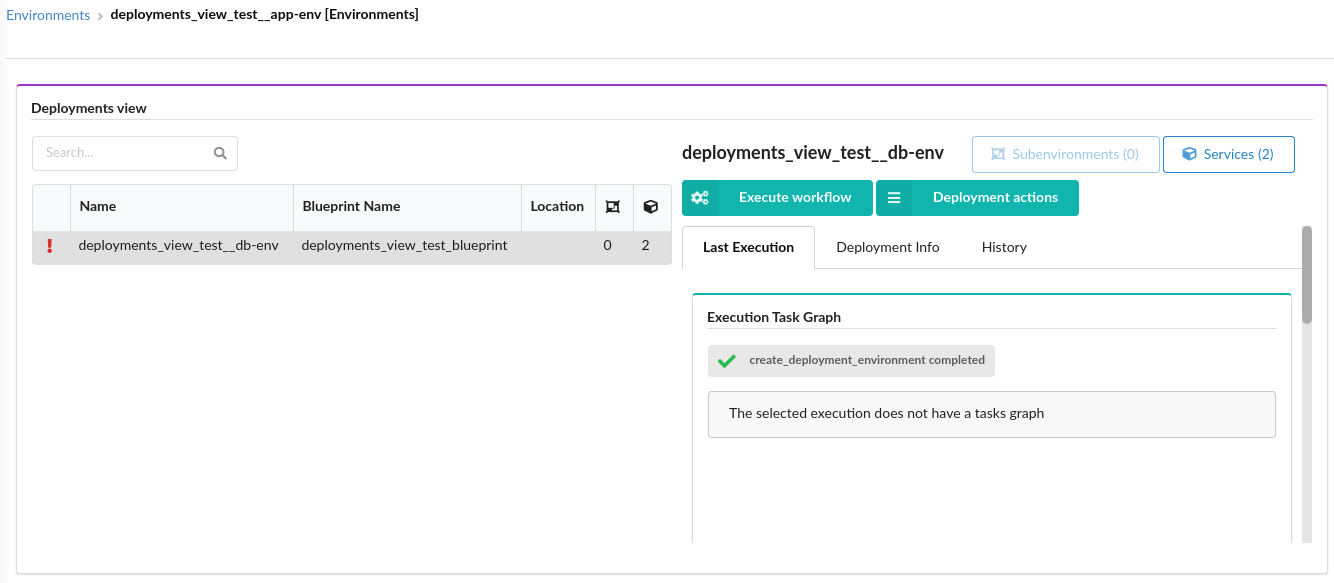
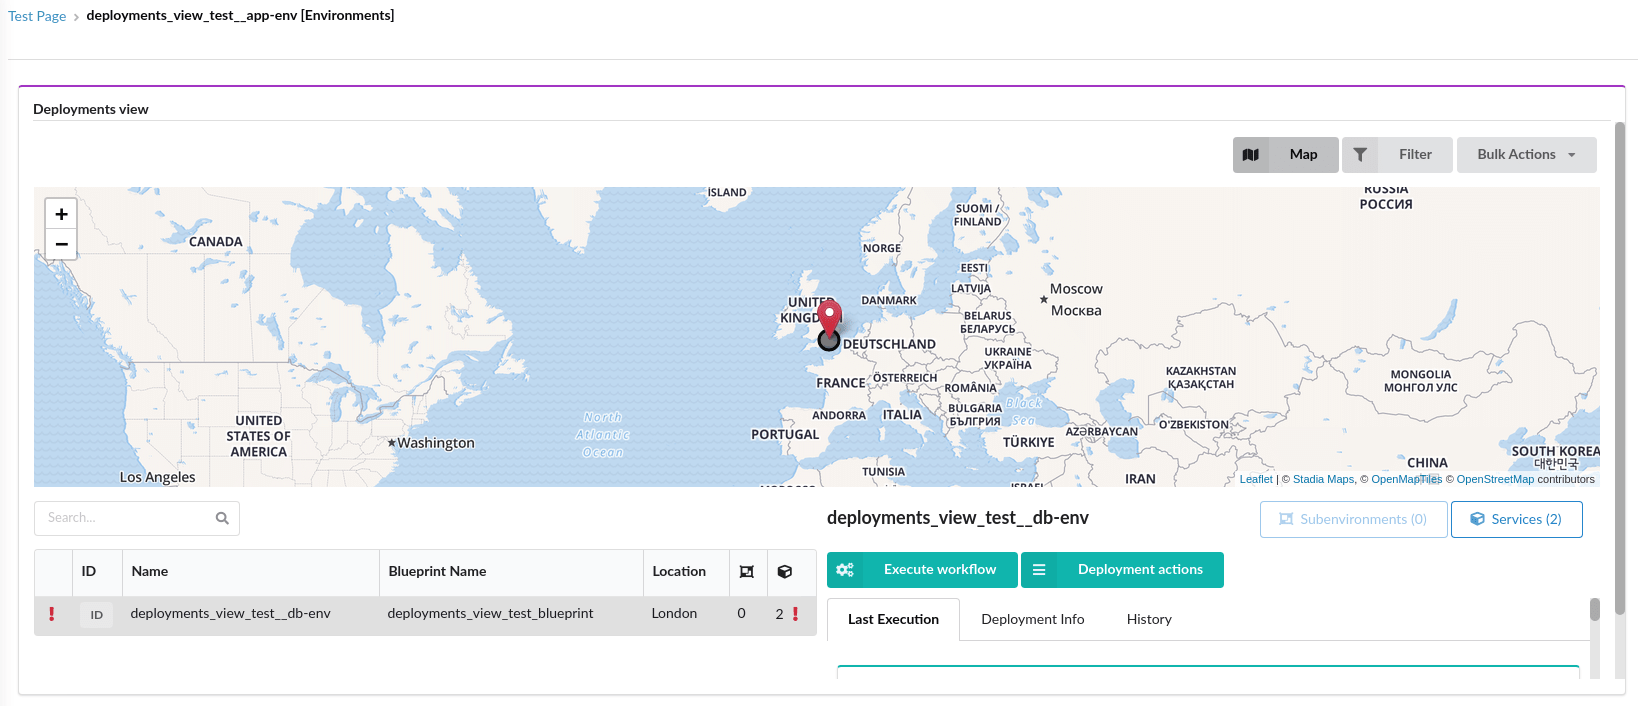
RD-1532 Update Deployments View widgets READMEs (#1388)
* Add README mappings for Deployments View widgets

Handle the regular and the drilled-down version of the widget.

* Show readmes for Deployments View widgets
* Update Deployments View widgets images
* Fix updateReadmes script to handle non-word character in titles

The script discarded non-word characters (e.g. parentheses, slashes)
when copying the titles from widgets documentation.

* Fix handling multiple note/warning/fix tags in README

When a widget README contained multiple note/warning/fix tags, the
transformation turned all the content between the first tag and the last
tag into a message, instead of transforming each tag into a message.

This is because the regexp used for matching those tags was greedy. It
has to be lazy (i.e. with a ? after *) to work correctly.

See http://www.regular-expressions.info/repeat.html#lazy

diff --git a/scripts/updateReadmes.js b/scripts/updateReadmes.js
@@ -40,7 +40,8 @@ function downloadFile(widget, url) {
 
 function updateTitle(widget, content) {
     return new Promise(resolve => {
-        const titleRegex = /---[^]*title: ([\w ]*)[^]*---/m;
+        // NOTE: [^]* are used instead of .* to capture line breaks
+        const titleRegex = /---[^]*title: ([^\n]*)[^]*---/m;
         let newContent = content;
 
         log(widget, 'Updating title:');
@@ -77,9 +78,10 @@ function validateHugoParams(widget, content) {
 
 function convertHugoShortcodes(widget, content) {
     return new Promise(resolve => {
-        const noteRegex = /{{%\s*note.*%}}([^]*){{%\s*\/note\s*%}}/gm;
-        const tipRegex = /{{%\s*tip.*%}}([^]*){{%\s*\/tip\s*%}}/gm;
-        const warningRegex = /{{%\s*warning.*%}}([^]*){{%\s*\/warning\s*%}}/gm;
+        // NOTE: See http://www.regular-expressions.info/repeat.html#lazy for an explanation of `*?`
+        const noteRegex = /{{%\s*note.*%}}([^]*?){{%\s*\/note\s*%}}/gm;
+        const tipRegex = /{{%\s*tip.*%}}([^]*?){{%\s*\/tip\s*%}}/gm;
+        const warningRegex = /{{%\s*warning.*%}}([^]*?){{%\s*\/warning\s*%}}/gm;
 
         // relref
         const relrefRegex = /{{<\s*relref\s*"(\S*)"\s*>}}/gm;

diff --git a/widgets/common/src/deploymentsView/configuration.ts b/widgets/common/src/deploymentsView/configuration.ts
@@ -53,8 +53,7 @@ export const sharedDefinition = getSharedDefinition({
     categories: [Stage.GenericConfig.CATEGORY.DEPLOYMENTS],
 
     isReact: true,
-    // TODO(RD-1532): enable readme after filling it in
-    hasReadme: false,
+    hasReadme: true,
     hasStyle: false,
     permission: Stage.GenericConfig.WIDGET_PERMISSION('deploymentsView')
 });

diff --git a/widgets/deploymentsView/README.md b/widgets/deploymentsView/README.md
@@ -1,5 +1,296 @@
 # Deployments View
 
-A complete deployments view – Deployment list, map view, and detailed deployment info
+Presents information about deployments in a single view. Contains:
 
-TODO(RD-1532): fill in
+- a table showing the deployments in the system (the left side)
+
+    The deployments can be further filtered.
+    See [Filtering deployments](/#filtering-deployments).
+
+- a pane with the deployment details divided into tabs (the right side)
+- a map showing the deployments locations (on the top, opened using the **Map**
+  button or automatically, if the widget configuration is changed)
+
+![Deployments View widget](/images/ui/widgets/deployments-view-widget.png)
+
+## Table
+
+The table shows deployments that match the current filter.
+See [Filtering deployments](/#filtering-deployments)
+for more details on filtering.
+
+The columns shown in the table can be shown and hidden using the widget's
+configuration.
+
+Clicking a deployment row in the table will select it and affect the contents
+of [the Details pane](/#details-pane) and the selected marker
+in [the map](/#deployments-map).
+
+At the bottom of the table are controls that allow changing the number of
+deployments shown in a single table page, as well as moving to other pages in
+case there are more deployments that fit a single page.
+
+If there is a workflow in progress for a given environment, there is a progress
+bar right under the row in the table.
+
+![Deployments View table progress bar](/images/ui/widgets/deployments-view-table-progress.png)
+
+### Columns
+
+The columns can show:
+
+1. The deployment status represented as an icon
+
+   - No icon - _Good_
+   - Yellow spinner
+     ![In progress icon](/images/ui/icons/deployments-view-in-progress-icon.png) - _In progress_
+   - Red exclamation mark
+     ![Requires attention icon](/images/ui/icons/deployments-view-requires-attention-icon.png) - _Requires attention_
+
+    See [the Environments and Services section](/#environments-and-services)
+    for more information on deployment statuses.
+
+2. ID - the deployment ID
+
+    You can see the exact ID by hovering over the _ID_ button. From the popup
+    you can also copy the ID directly to your clipboard.
+
+3. Name - the deployment display name
+4. Blueprint Name - the name of the blueprint that this deployment is using
+5. Environment Type - the value of the `csys-env-type` label for that
+   deployment
+
+    Useful for differentiating deployments that use the same blueprint.
+
+6. Location - the name of the site the deployment is assigned to
+7. The counts and statuses of child deployments depending on their type
+   (environments or services)
+
+    See [the Environments and Services section](/#environments-and-services)
+    for more information on child deployments.
+
+    The counts and statuses in those columns are based on **all** child
+    deployments (it does not matter whether they are directly or indirectly
+    attached to the main deployment).
+
+### Sorting deployments
+
+Deployments in the table can be sorted by clicking a column's header.
+
+Clicking the column again will cycle between ascending and descending sort
+order.
+
+## Details pane
+
+The right side of the widget contains details about the currently selected
+deployment.
+
+In the header of the right side are:
+
+- the currently selected deployment name
+- buttons to drill-down to child environments or services
+
+    The buttons will be disabled when there are no child environments or
+    services.
+
+    See [the Environments and Services section](/#environments-and-services)
+    for more information on child deployments.
+
+- buttons to execute a workflow on that deployment or invoke some other
+  deployment action
+
+What follows are different deployment-related widgets divided into 3 tabs:
+
+1. Last Execution - information about the last workflow execution for that
+   deployment
+2. Deployment Info - general information about the deployment
+3. History - a list of workflow executions for that deployment and a list of
+   logs
+
+## Environments and Services
+
+For clarity and better organization, deployments can form a hierarchical
+structure and be marked as:
+
+- Environments - can hold other environments and services
+- Services - the bottommost level of the hierarchy
+
+Marking the deployments happens by adding the following labels to the
+deployment:
+
+1. `csys-obj-parent` - the ID of the parent of the current deployment
+2. `csys-obj-type` - either `service` or `environment`
+    If there is no such label, the deployment is a service by default.
+
+Forming a hierarchical structure allows drilling down into deployments that are
+directly attached to a parent environment, as well as aggregating and
+propagating statuses of deployments for better problem discovery.
+
+### Deployment status
+
+A single deployment's status is:
+
+- _Requires attention_ (red exclamation mark) if one of the following applies:
+   - at least one node is not successfully installed (and there is no workflow
+     in progress)
+   - the last workflow execution failed
+- _In progress_ (yellow spinner) if there is a workflow in progress
+- _Good_ - otherwise.
+
+### Propagating deployment statuses
+
+If a deployment has child deployments, then their statuses are propagated so
+that:
+
+1. If there is at least one nested deployment that requires attention, the parent's
+   status will be _Requires attention_ too.
+2. Otherwise, if there is at least one nested deployment that is in progress,
+   the parent's status will be _In progress_ too (unless the parent deployment
+   itself _Requires attention_).
+
+### Drilling down to child deployments
+
+If a deployment has child deployments, the drill-down buttons in the top part of
+the right pane become active. Clicking them will navigate to a nested page that
+present the deployments (only environments or services, depending on the button
+clicked) from the next level in the hierarchy.
+
+The nested page has only a single Deployments View widget, but it can be
+customized using the
+[Edit Mode](/working_with/console/customization/edit-mode).
+
+Drilling down can happen multiple times if there are more levels in the
+deployments hierarchy.
+
+To go back to the parent page, use the breadcrumbs in top part of the page.
+
+![Drilled-down Deployments View](/images/ui/widgets/deployments-view-drilled-down.png)
+
+## Features
+
+### Filtering deployments
+
+Deployments visible in the table can be filtered in 3 ways:
+
+1. Typing in the search bar above the table
+2. Setting a default filter in the widget's configuration
+
+    This filter will be persisted and used when viewing the widget again.
+
+3. Applying a local filter
+
+    By clicking the "Filter" button in the top-right
+    corner of the widget, one can select a local filter. It will override the
+    default filter picked in the widget's configuration. The local filter will be
+    reset when viewing the widget again.
+
+
+<div class="ui message info">
+[The Resource Filter widget](/working_with/console/widgets/filter)
+does not influence the filtering performed in the Deployments View widget.
+</div>
+
+### Deployments Map
+
+Clicking the _Map_ button in the top part of the widget will open an additional
+map section in the top part of the widget. The map presents deployments in the
+sites that are attached to them.
+
+![Deployments View map](/images/ui/widgets/deployments-view-map.png)
+
+The height of the map section, as well as whether it should be open by default
+can be changed using the widget's configuration.
+
+The color of the marker representing a deployment depends on the deployment's
+state:
+
+1. Blue - _Good_
+2. Yellow - _In progress_
+3. Red - _Requires attention_
+
+The map supports zooming (when scrolling using the mouse or when using the zoom
+buttons in the top-left part of the map) and panning (when dragging using the
+mouse).
+
+Deployments that are close together are grouped into a cluster that displays the
+number of deployments in that clustered group. The color of the cluster icon
+depends on the worst state of deployments inside of it. Clicking the marker will
+expand the cluster (either by zooming in or by breaking the cluster apart into
+individual markers).
+
+The currently selected deployment is marked by an additonal circle underneath
+the marker. Such a deployment is not clustered, meaning it will appear outside
+of any cluster, even if it is close to other deployments.
+
+Clicking a deployment marker will select it in the table and affect the contents
+of [the Details pane](/#details-pane) and the selected marker
+in [the map](/#deployments-map).
+
+Hovering over a deployment marker will show a tooltip with additonal
+information:
+
+- Deployment name
+- Deployment blueprint name
+- Site name
+- Deployment status
+- The counts and statuses of child deployments
+
+![Deployments Map tooltip](/images/ui/widgets/deployments-view-map-tooltip.png)
+
+### Bulk Actions
+
+The Deployments View widget also has a _Bulk Actions_ button in the top-right
+corner of the widget. It allows invoking actions over all deployments that match
+the current filter criteria.
+
+<div class="ui message info">
+Keep in mind the actions will be invoked also for deployments that are on other
+pages of the table (not only the deployments that are visible in the current
+table page).
+</div>
+
+#### Deploy On
+
+The _Deploy On_ bulk action will show a modal that guides the user through
+deploying additional services on the environments that are matched by the
+current filter.
+
+After selecting the base blueprint for the new deployments and providing any
+additional labels, there will be a new child deployment created for each
+deployment matched by the current filter.
+Each generated deployment will be labeled with the Environment ID of the
+environment on which it is deployed as a parent label, and the capabilities of
+that parent environment can be retrieved using the
+[get-environment-capability](/developer/blueprints/spec-intrinsic-functions#get-environment-capability)
+intrinsic function.
+
+The newly created child deployments will be automatically installed.
+
+![Deploy On modal](/images/ui/widgets/deployments-view-deploy-on-modal.png)
+
+#### Run Workflow
+
+The _Run Workflow_ bulk action will show a modal that allows selecting a
+workflow that will be executed on each deployment that matches the current
+filter.
+
+![Run Workflow modal](/images/ui/widgets/deployments-view-run-workflow-modal.png)
+
+## Settings
+
+- `Refresh time interval` - The time interval in which the widget’s data will
+  be refreshed, in seconds. Default: 10 seconds
+- `Map height` - the height of the map section in pixels
+- `List of fields to show in the table`
+- `Show map by default`
+- `Name of the saved filter to apply` - the name of a filter to use by default
+  when there is no local filter applied.
+
+    See [Filtering deployments](/#filtering-deployments) for more
+    information.
+
+- `Filter by parent deployment` - whether to only show deployments that are
+  directly attached to a deployment selected on a previous, parent page.
+
+    This is useful only when manually adding the _Deployments View_ widget inside
+    of a drilled-down page.

diff --git a/widgets/filters/README.md b/widgets/filters/README.md
@@ -18,7 +18,9 @@ The actions column contains the following action icons:
 * **Edit filter** available only to `user` filters, opens the **filter rules edit** modal (see [defining filter rules](/#defining-filter-rules) for details on rule definition)
 * **Delete filter** available only to non-`system` filters, removes the selected filter (see note below)
 
-Filters used as a default filter in the Deployments View widget cannot be deleted.
+Filters used as a default filter in
+[the Deployments View widget](/working_with/console/widgets/deploymentsView)
+cannot be deleted.
 When trying to delete such a filter a modal shows up describing where (on which page and in which widget) and by whom (by which user) the filter is used.
 
 ![filters delete]( /images/ui/widgets/filters-delete.png ) 

diff --git a/widgets/deploymentsViewDrilledDown/README.md b/widgets/deploymentsViewDrilledDown/README.md
@@ -1,5 +1,12 @@
 # Deployments View (drilled-down)
 
-A complete deployments view – Deployment list, map view, and detailed deployment info
+The _Deployments View (drilled-down)_ widget is a drilled-down version of
+[the regular Deployments View widget](/working_with/console/widgets/deploymentsView).
 
-TODO(RD-1532): fill in
+It should be used only inside pages that were drilled-down to when using the
+Deployments View widget. Using this widget on other pages will result in errors
+being shown.
+
+Please refer to
+[the regular Deployments View widget documentation](/working_with/console/widgets/deploymentsView)
+for more information.

diff --git a/widgets/outputs/README.md b/widgets/outputs/README.md
@@ -1,4 +1,4 @@
-# Deployment Outputs
+# Deployment Outputs/Capabilities
 
 Presents the names and values of the outputs and capabilities of the deployment currently set in the context.
 
